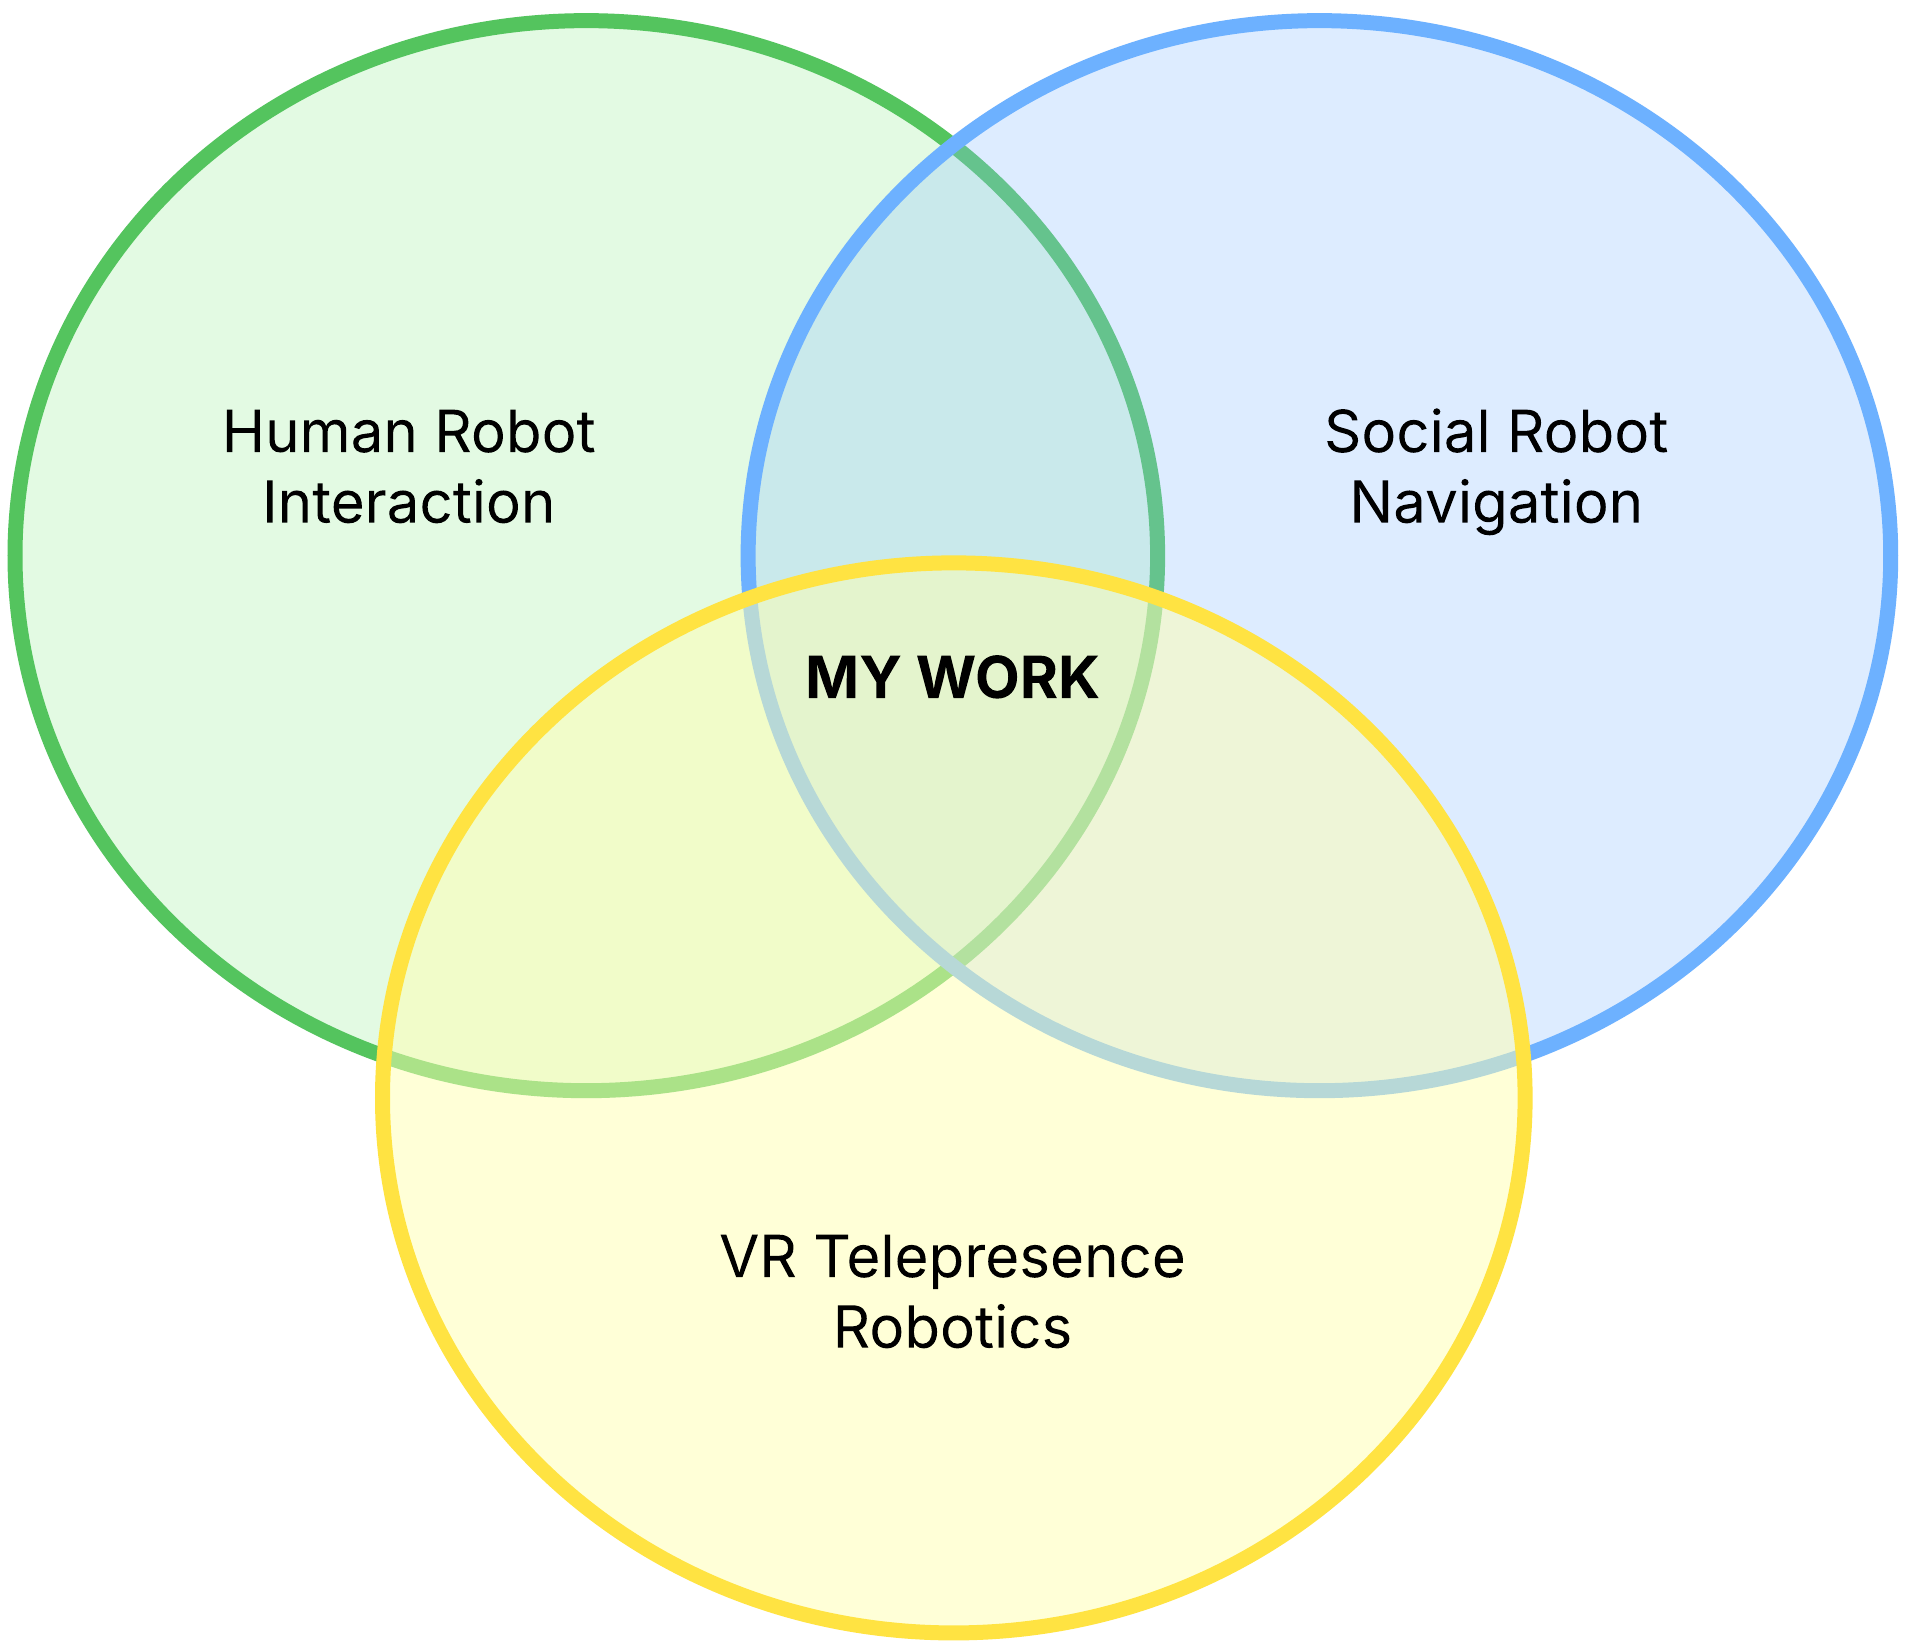
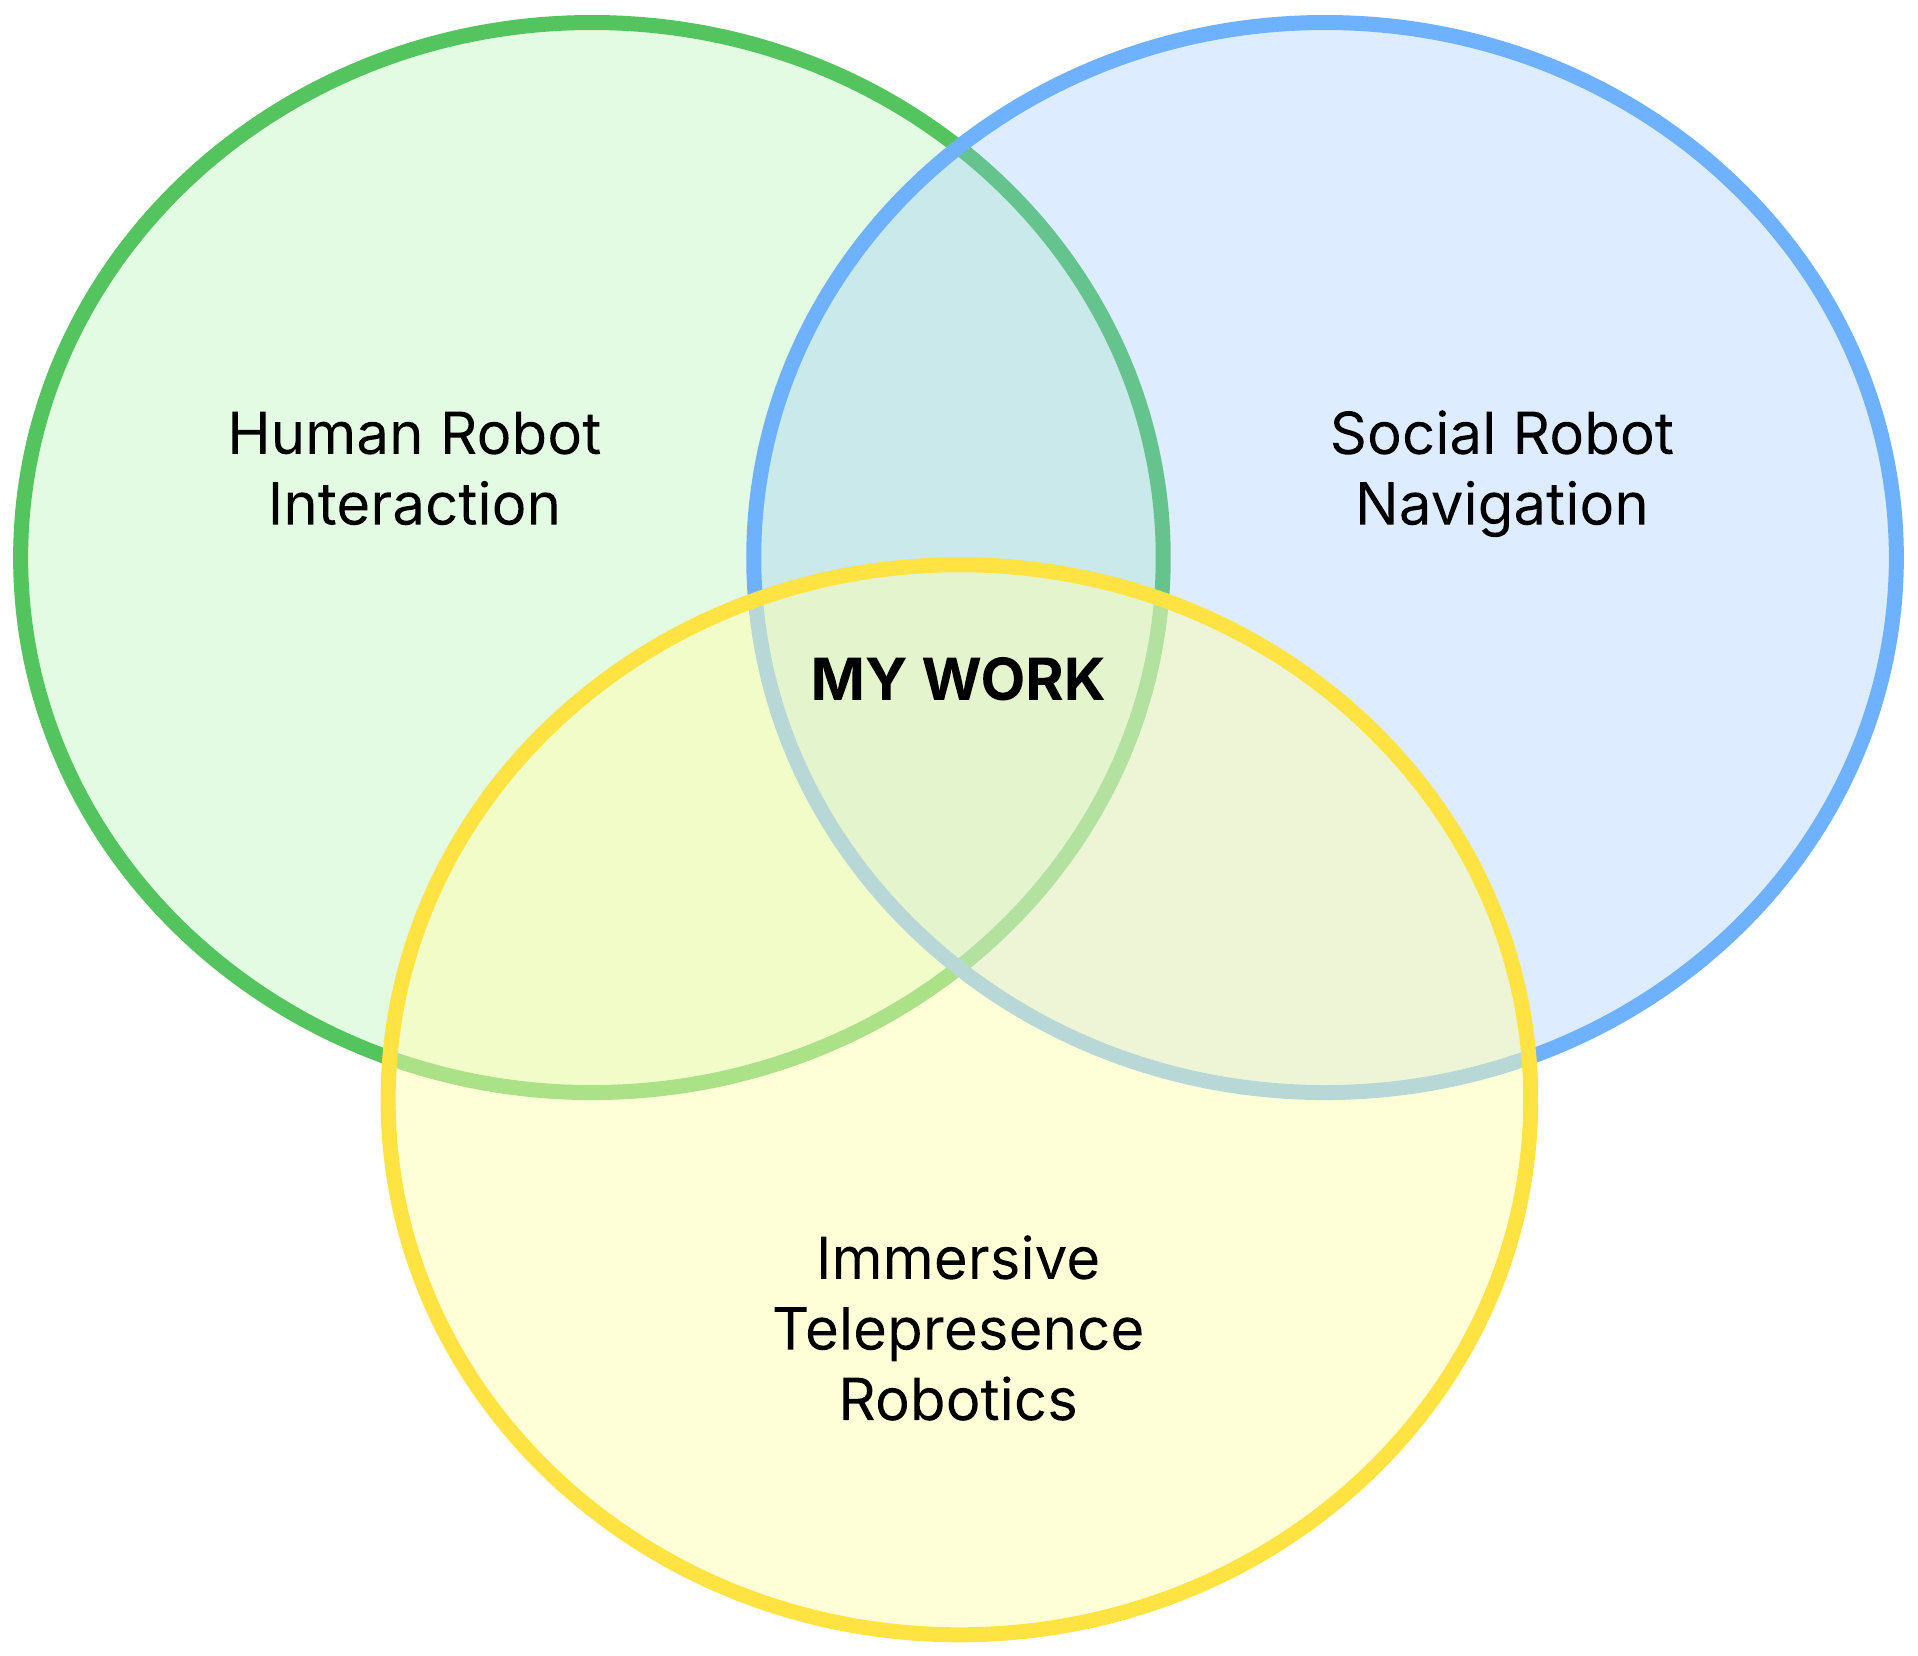
[Fix]: Terminology

diff --git a/_pages/main.md b/_pages/main.md
@@ -7,6 +7,6 @@ redirect_from:
   - /main.html
 ---
 
-I am a passionate student looking into the intersection between Human Robot Interaction, VR telepresence robotics and social navigation. This website provides an insite into some of the work I have been doing throughout my PhD. `Always open to collaborate in developing articles, conferences, events, journals and workshops, so please feel free to reach out through social media or send an email!`
+I am a passionate student looking into the intersection between Human Robot Interaction, immersive telepresence robotics (using a VR headset for mobile telepresence use cases) and social navigation. This website provides an insite into some of the work I have been doing throughout my PhD. `Always open to collaborate in developing articles, conferences, events, journals and workshops, so please feel free to reach out through social media or send an email!`
 
 <img src='/images/main.png'>
